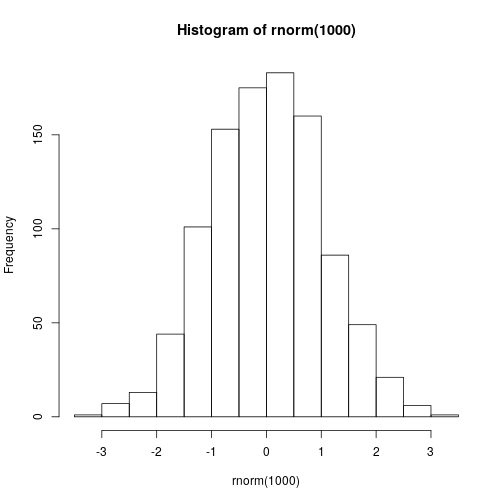
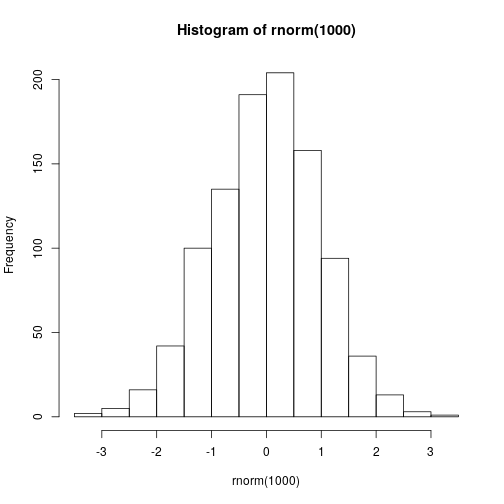
testing with module1

diff --git a/modules/module1_basics_slides.html b/modules/module1_basics_slides.html
@@ -63,7 +63,7 @@ August 2020, UC Berkeley
 <div class="sourceCode"><pre class="sourceCode r"><code class="sourceCode r"><span class="dv">2</span> <span class="op">*</span><span class="st"> </span>pi <span class="co"># multiply by a constant</span></code></pre></div>
 <pre><code>## [1] 6.283185</code></pre>
 <div class="sourceCode"><pre class="sourceCode r"><code class="sourceCode r"><span class="dv">7</span> <span class="op">+</span><span class="st"> </span><span class="kw">runif</span>(<span class="dv">1</span>) <span class="co"># add a random number</span></code></pre></div>
-<pre><code>## [1] 7.638205</code></pre>
+<pre><code>## [1] 7.314957</code></pre>
 <div class="sourceCode"><pre class="sourceCode r"><code class="sourceCode r"><span class="dv">3</span><span class="op">^</span><span class="dv">4</span> <span class="co"># powers</span></code></pre></div>
 <pre><code>## [1] 81</code></pre>
 <div class="sourceCode"><pre class="sourceCode r"><code class="sourceCode r"><span class="kw">sqrt</span>(<span class="dv">4</span><span class="op">^</span><span class="dv">4</span>) <span class="co"># functions</span></code></pre></div>
@@ -82,7 +82,18 @@ August 2020, UC Berkeley
 <div class="sourceCode"><pre class="sourceCode r"><code class="sourceCode r"><span class="fl">5e9</span> <span class="op">*</span><span class="st"> </span><span class="fl">1e3</span></code></pre></div>
 <pre><code>## [1] 5e+12</code></pre>
 <p>Think of a mathematical operation you need - can you guess how to do it in R?</p>
-<p>[poll]</p>
+<ul>
+<li>POLL *</li>
+</ul>
+<p>How do I calculate the cosine of 2 pi?</p>
+<ul>
+<li>cosine(2pi)</li>
+<li>cosine(2*pi)</li>
+<li>cos(2 * pi)</li>
+<li>cos(2 x pi)</li>
+<li>cos(2*pi)</li>
+<li>cos(2 * 3.14159)</li>
+</ul>
 <p>Side note to presenter: turn off R Notebook inline view via RStudio -&gt; Preferences -&gt; R Markdown -&gt; Show output inline ...</p>
 </div>
 <div id="assigning-values-to-r-objects" class="slide section level1">
@@ -143,7 +154,7 @@ countries</code></pre></div>
 nums &lt;-<span class="st"> </span><span class="kw">c</span>(<span class="fl">1.1</span>, <span class="dv">3</span>, <span class="fl">-5.7</span>)
 devs &lt;-<span class="st"> </span><span class="kw">rnorm</span>(<span class="dv">5</span>)
 devs</code></pre></div>
-<pre><code>## [1] -1.2363674  1.0732376  0.7176416  0.6620497  0.9165086</code></pre>
+<pre><code>## [1] -0.5990602  0.4825094  1.8898322  0.6390860 -1.3014099</code></pre>
 <div class="sourceCode"><pre class="sourceCode r"><code class="sourceCode r">## integer vector
 ints &lt;-<span class="st"> </span><span class="kw">c</span>(1L, 5L, <span class="op">-</span>3L) <span class="co"># force storage as integer not decimal number</span>
 ## 'L' is for 'long integer' (historical)
@@ -224,7 +235,8 @@ vals[<span class="dv">1</span><span class="op">:</span><span class="dv">2</span>
 ## How does R process these next subset operations?
 vals[vals <span class="op">&lt;</span><span class="st"> </span><span class="dv">0</span>] &lt;-<span class="st"> </span><span class="dv">0</span>
 vals[<span class="dv">1</span><span class="op">:</span><span class="dv">8</span>]</code></pre></div>
-<pre><code>## [1] 0.000000 0.000000 1.269925 0.000000 1.852568 0.000000 0.000000 0.000000</code></pre>
+<pre><code>## [1] 0.0000000 0.0000000 0.2067136 0.0000000 1.4781584 0.0000000 0.0000000
+## [8] 0.0000000</code></pre>
 <div class="sourceCode"><pre class="sourceCode r"><code class="sourceCode r">wealthy &lt;-<span class="st"> </span>gdp[gdp <span class="op">&gt;</span><span class="st"> </span><span class="dv">100000</span>]
 gdp[<span class="dv">1</span><span class="op">:</span><span class="dv">10</span>]</code></pre></div>
 <pre><code>##  [1] 779.4453 820.8530 853.1007 822.9711 739.9811 786.1134 978.0114
@@ -245,7 +257,7 @@ gdpSubset <span class="op">&gt;=</span><span class="st"> </span><span class="fl"
 <div class="sourceCode"><pre class="sourceCode r"><code class="sourceCode r">vec1 &lt;-<span class="st"> </span><span class="kw">rnorm</span>(<span class="dv">5</span>)
 vec2 &lt;-<span class="st"> </span><span class="kw">rnorm</span>(<span class="dv">5</span>)
 vec1 <span class="op">&gt;</span><span class="st"> </span>vec2</code></pre></div>
-<pre><code>## [1]  TRUE FALSE FALSE  TRUE FALSE</code></pre>
+<pre><code>## [1] FALSE  TRUE  TRUE  TRUE  TRUE</code></pre>
 <div class="sourceCode"><pre class="sourceCode r"><code class="sourceCode r">vec1 <span class="op">==</span><span class="st"> </span>vec2</code></pre></div>
 <pre><code>## [1] FALSE FALSE FALSE FALSE FALSE</code></pre>
 <div class="sourceCode"><pre class="sourceCode r"><code class="sourceCode r">vec1 <span class="op">!=</span><span class="st"> </span>vec2</code></pre></div>
@@ -272,7 +284,7 @@ gap<span class="op">$</span>lifeExp[<span class="dv">1</span><span class="op">:<
 <div class="sourceCode"><pre class="sourceCode r"><code class="sourceCode r">median</code></pre></div>
 <pre><code>## function (x, na.rm = FALSE, ...) 
 ## UseMethod(&quot;median&quot;)
-## &lt;bytecode: 0x55b1411a2a80&gt;
+## &lt;bytecode: 0x561ae6246a80&gt;
 ## &lt;environment: namespace:stats&gt;</code></pre>
 <div class="sourceCode"><pre class="sourceCode r"><code class="sourceCode r"><span class="kw">class</span>(median)</code></pre></div>
 <pre><code>## [1] &quot;function&quot;</code></pre>
@@ -288,7 +300,7 @@ gap<span class="op">$</span>lifeExp[<span class="dv">1</span><span class="op">:<
 </ul>
 <div class="sourceCode"><pre class="sourceCode r"><code class="sourceCode r"><span class="kw">hist</span>(<span class="kw">rnorm</span>(<span class="dv">1000</span>))</code></pre></div>
 <div class="figure">
[2 lines of base64/hex data omitted]
 
 </div>
 </div>
@@ -334,6 +346,9 @@ gap<span class="op">$</span>lifeExp[<span class="dv">1</span><span class="op">:<
 <pre><code>## [1] &quot;numeric&quot;</code></pre>
 <div class="sourceCode"><pre class="sourceCode r"><code class="sourceCode r"><span class="kw">class</span>(gap<span class="op">$</span>country)</code></pre></div>
 <pre><code>## [1] &quot;character&quot;</code></pre>
+</div>
+<div id="basic-kinds-of-r-objects-2" class="slide section level1">
+<h1>Basic kinds of R objects (2)</h1>
 <h3 id="lists">Lists</h3>
 <p>Collections of disparate or complicated objects</p>
 <div class="sourceCode"><pre class="sourceCode r"><code class="sourceCode r">myList &lt;-<span class="st"> </span><span class="kw">list</span>(<span class="dt">stuff =</span> <span class="dv">3</span>, <span class="dt">mat =</span> <span class="kw">matrix</span>(<span class="dv">1</span><span class="op">:</span><span class="dv">4</span>, <span class="dt">nrow =</span> <span class="dv">2</span>), 

diff --git a/modules/module1_basics.html b/modules/module1_basics.html
@@ -221,7 +221,7 @@ hr {
 <pre><code class="r">7 + runif(1) # add a random number
 </code></pre>
 
-<pre><code>## [1] 7.465094
+<pre><code>## [1] 7.25675
 </code></pre>
 
 <pre><code class="r">3^4 # powers
@@ -275,7 +275,20 @@ hr {
 
 <p>Think of a mathematical operation you need - can you guess how to do it in R?</p>
 
-<p>[poll]</p>
+<ul>
+<li>POLL *</li>
+</ul>
+
+<p>How do I calculate the cosine of 2 pi?</p>
+
+<ul>
+<li>cosine(2pi)</li>
+<li>cosine(2*pi)</li>
+<li>cos(2 * pi)</li>
+<li>cos(2 x pi)</li>
+<li>cos(2*pi)</li>
+<li>cos(2 * 3.14159)</li>
+</ul>
 
 <p>Side note to presenter: turn off R Notebook inline view via RStudio -&gt; Preferences -&gt; R Markdown -&gt; Show output inline &hellip;</p>
 
@@ -380,7 +393,7 @@ devs &lt;- rnorm(5)
 devs
 </code></pre>
 
-<pre><code>## [1] -1.45050338 -0.55027684  0.52749449  0.58267274 -0.07329048
+<pre><code>## [1]  0.6090486 -0.5656129  0.8751238 -2.7357055  1.1103134
 </code></pre>
 
 <pre><code class="r">## integer vector
@@ -509,8 +522,8 @@ vals[vals &lt; 0] &lt;- 0
 vals[1:8]
 </code></pre>
 
-<pre><code>## [1] 0.00000000 0.00000000 0.00000000 0.00000000 0.61745072 0.09142704
-## [7] 1.05112450 1.51787581
+<pre><code>## [1] 0.0000000 0.0000000 0.5417692 0.0000000 1.3342994 0.0000000 1.3567713
+## [8] 0.4227140
 </code></pre>
 
 <pre><code class="r">wealthy &lt;- gdp[gdp &gt; 100000]
@@ -544,7 +557,7 @@ vec2 &lt;- rnorm(5)
 vec1 &gt; vec2
 </code></pre>
 
-<pre><code>## [1]  TRUE  TRUE FALSE  TRUE FALSE
+<pre><code>## [1]  TRUE  TRUE  TRUE FALSE  TRUE
 </code></pre>
 
 <pre><code class="r">vec1 == vec2
@@ -595,7 +608,7 @@ gap$lifeExp[1:10] &lt; 75 &amp; gap$continent[1:10] == &quot;Americas&quot;
 
 <pre><code>## function (x, na.rm = FALSE, ...) 
 ## UseMethod(&quot;median&quot;)
-## &lt;bytecode: 0x55b1411a2a80&gt;
+## &lt;bytecode: 0x561ae6246a80&gt;
 ## &lt;environment: namespace:stats&gt;
 </code></pre>
 
@@ -632,7 +645,7 @@ gap$lifeExp[1:10] &lt; 75 &amp; gap$continent[1:10] == &quot;Americas&quot;
 <pre><code class="r">hist(rnorm(1000))
 </code></pre>
 
[2 lines of base64/hex data omitted]
 
 <h1>Getting help about a function</h1>
 
@@ -718,6 +731,8 @@ apropos(&quot;mean&quot;)
 
 <pre><code>## [1] &quot;character&quot;
 </code></pre>
+
+<h1>Basic kinds of R objects (2)</h1>
 
 <h3>Lists</h3>
 
